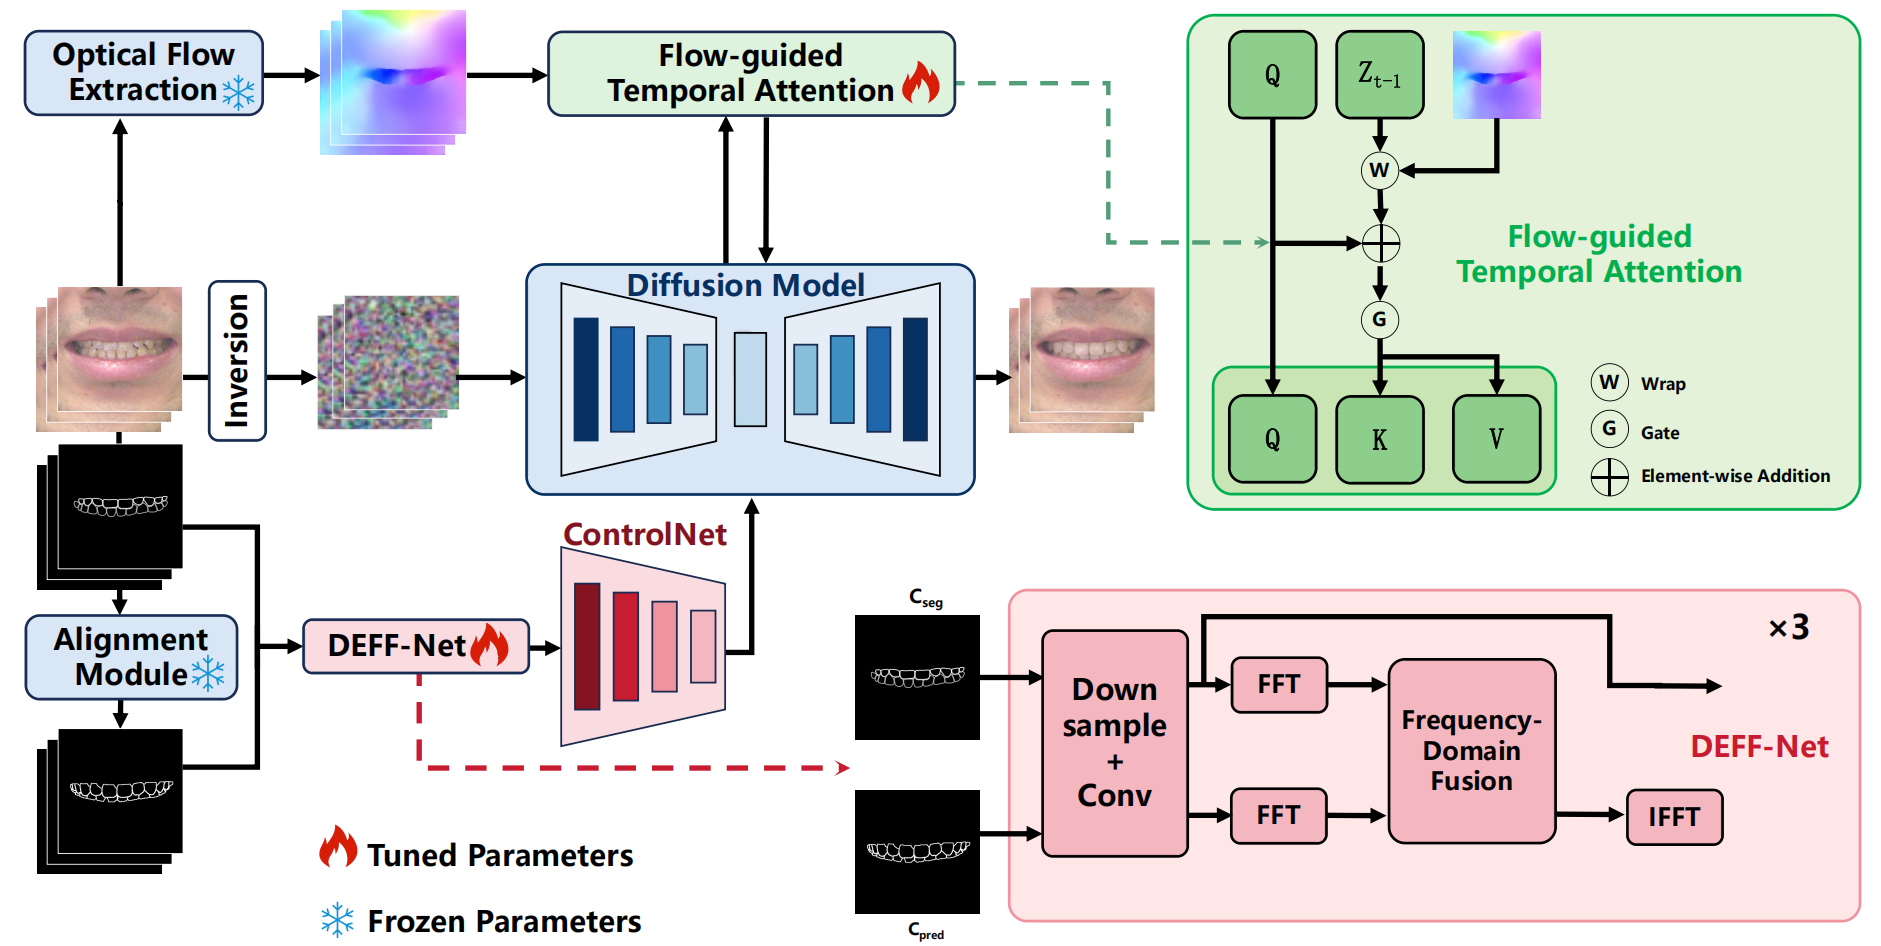
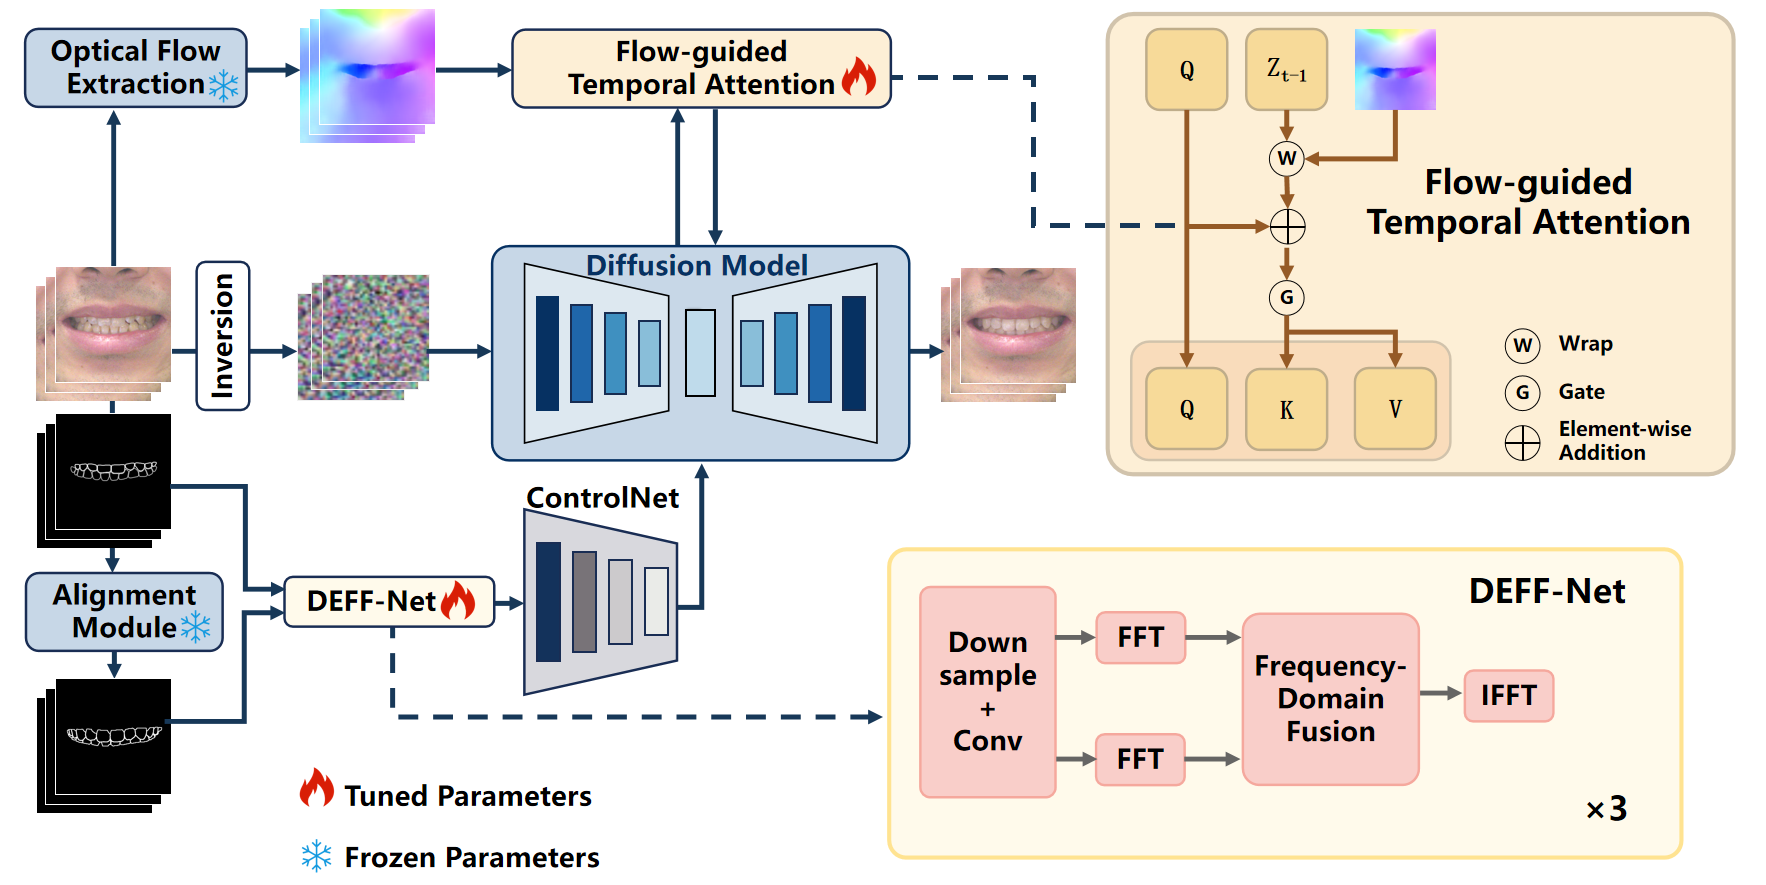
update author

diff --git a/index.html b/index.html
@@ -18,6 +18,7 @@
   h1{font-size:clamp(26px,4vw,36px);margin:.2em 0 .4em}
   .authors{margin:.4em 0;color:var(--muted)}
   .authors a{color:inherit}
+  .author-names{font-weight:700;color:var(--text)}
   .venue{margin:.3em 0 1em;font-weight:600;color:#666}
   .badges{display:flex;gap:10px;flex-wrap:wrap;justify-content:center;margin:10px 0 16px}
   .badge{display:inline-flex;align-items:center;gap:6px;padding:8px 12px;border-radius:999px;background:var(--chip);border:1px solid var(--chipbd);font-weight:600}
@@ -86,8 +87,12 @@
     <header>
       <h1>TCPVG: Temporally Consistent Post-orthodontic Video Generation via Frequency and Flow Fusion</h1>
       <div class="authors">
-        <a href="#">Wenjie Cai</a>, <a href="#">Yan Tian</a><br>
-        <span class="venue"></span>
+        <span class="author-names">Wenjie Cai<sup>a,b</sup>, Jiaheng Xu<sup>a</sup>, Xuran Zhao<sup>a,c</sup>, Tao Yang<sup>a,c</sup>, Xijuan Liu<sup>a,c,*</sup>, Yan Tian<sup>a,b,c,*</sup></span><br>
+        <span style="display:inline-block;margin-top:6px;font-size:14px;line-height:1.5;">
+          <span><sup>a</sup> School of Computer Science and Technology, Zhejiang Gongshang University, 310018, Hangzhou, China</span><br>
+          <span><sup>b</sup> Shining3D Tech Co., Ltd., 311258, Hangzhou, China</span><br>
+          <span><sup>c</sup> Zhejiang Key Laboratory of Big Data and Future E-Commerce Technology, 310018, Hangzhou, China</span>
+        </span>
       </div>
       <div class="badges">
         <a class="badge" href="#" target="_blank" rel="noopener">📄 Paper</a>
@@ -125,6 +130,10 @@ To address these challenges, we propose the Temporally Consistent Post-orthodont
     <section id="comparison">
       <h2>Comparison with Other Methods</h2>
       <div class="center">
+        <p style="text-align:center;color:var(--muted);margin-bottom:20px">
+          我们将 TCPVG 与其他方法进行对比，展示不同方法的生成效果。
+        </p>
+        
         <!-- 对比示例 1 -->
         <div class="comparison-group">
           <h3 style="font-size:18px;margin:24px 0 12px;text-align:center">Case 1</h3>
